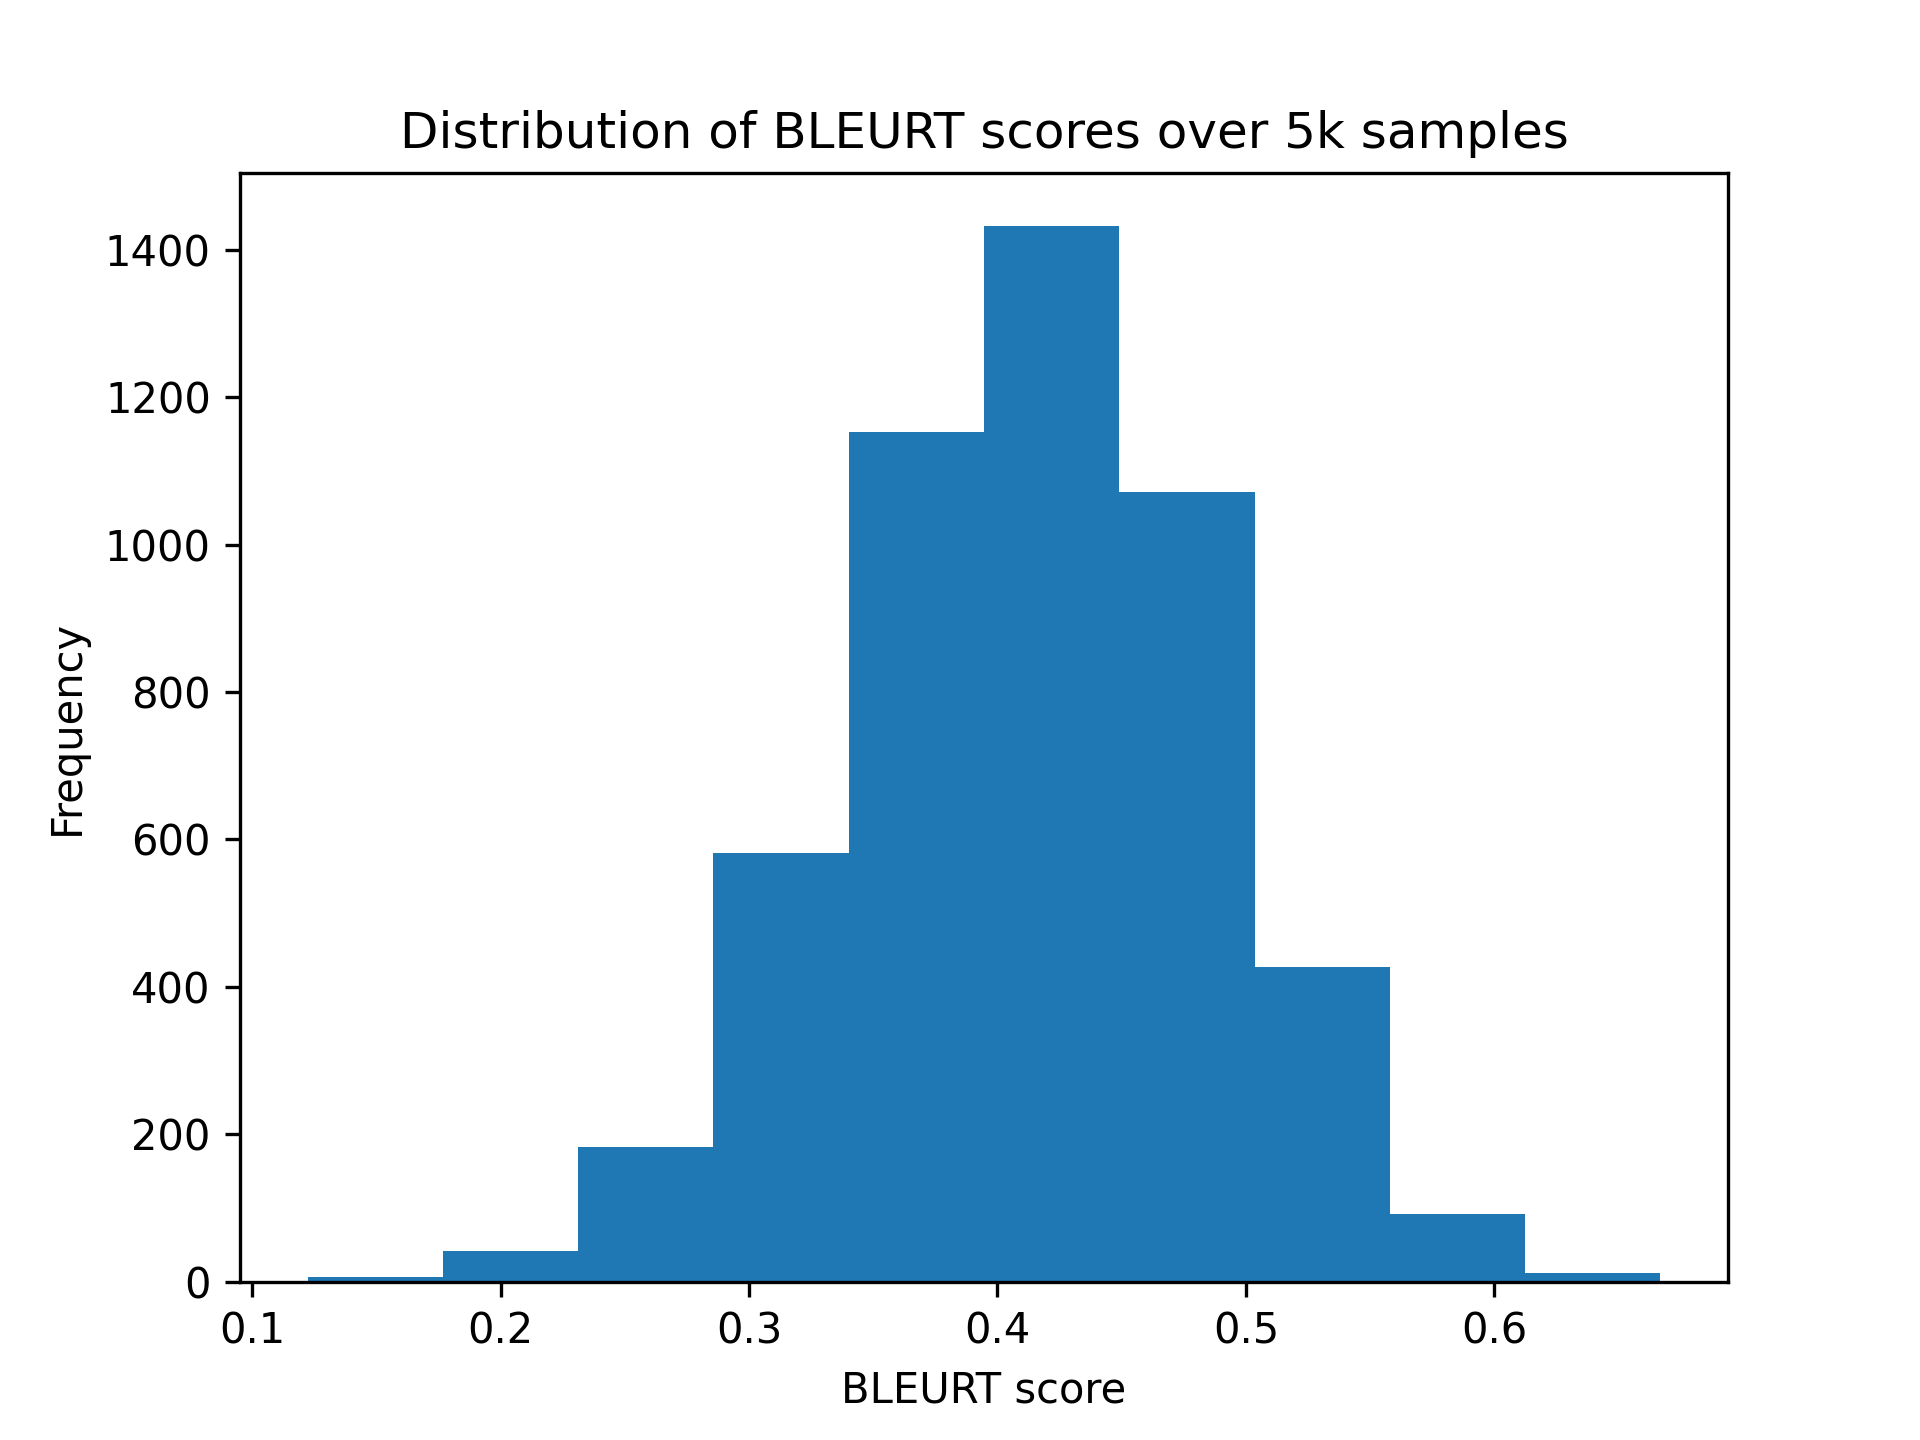
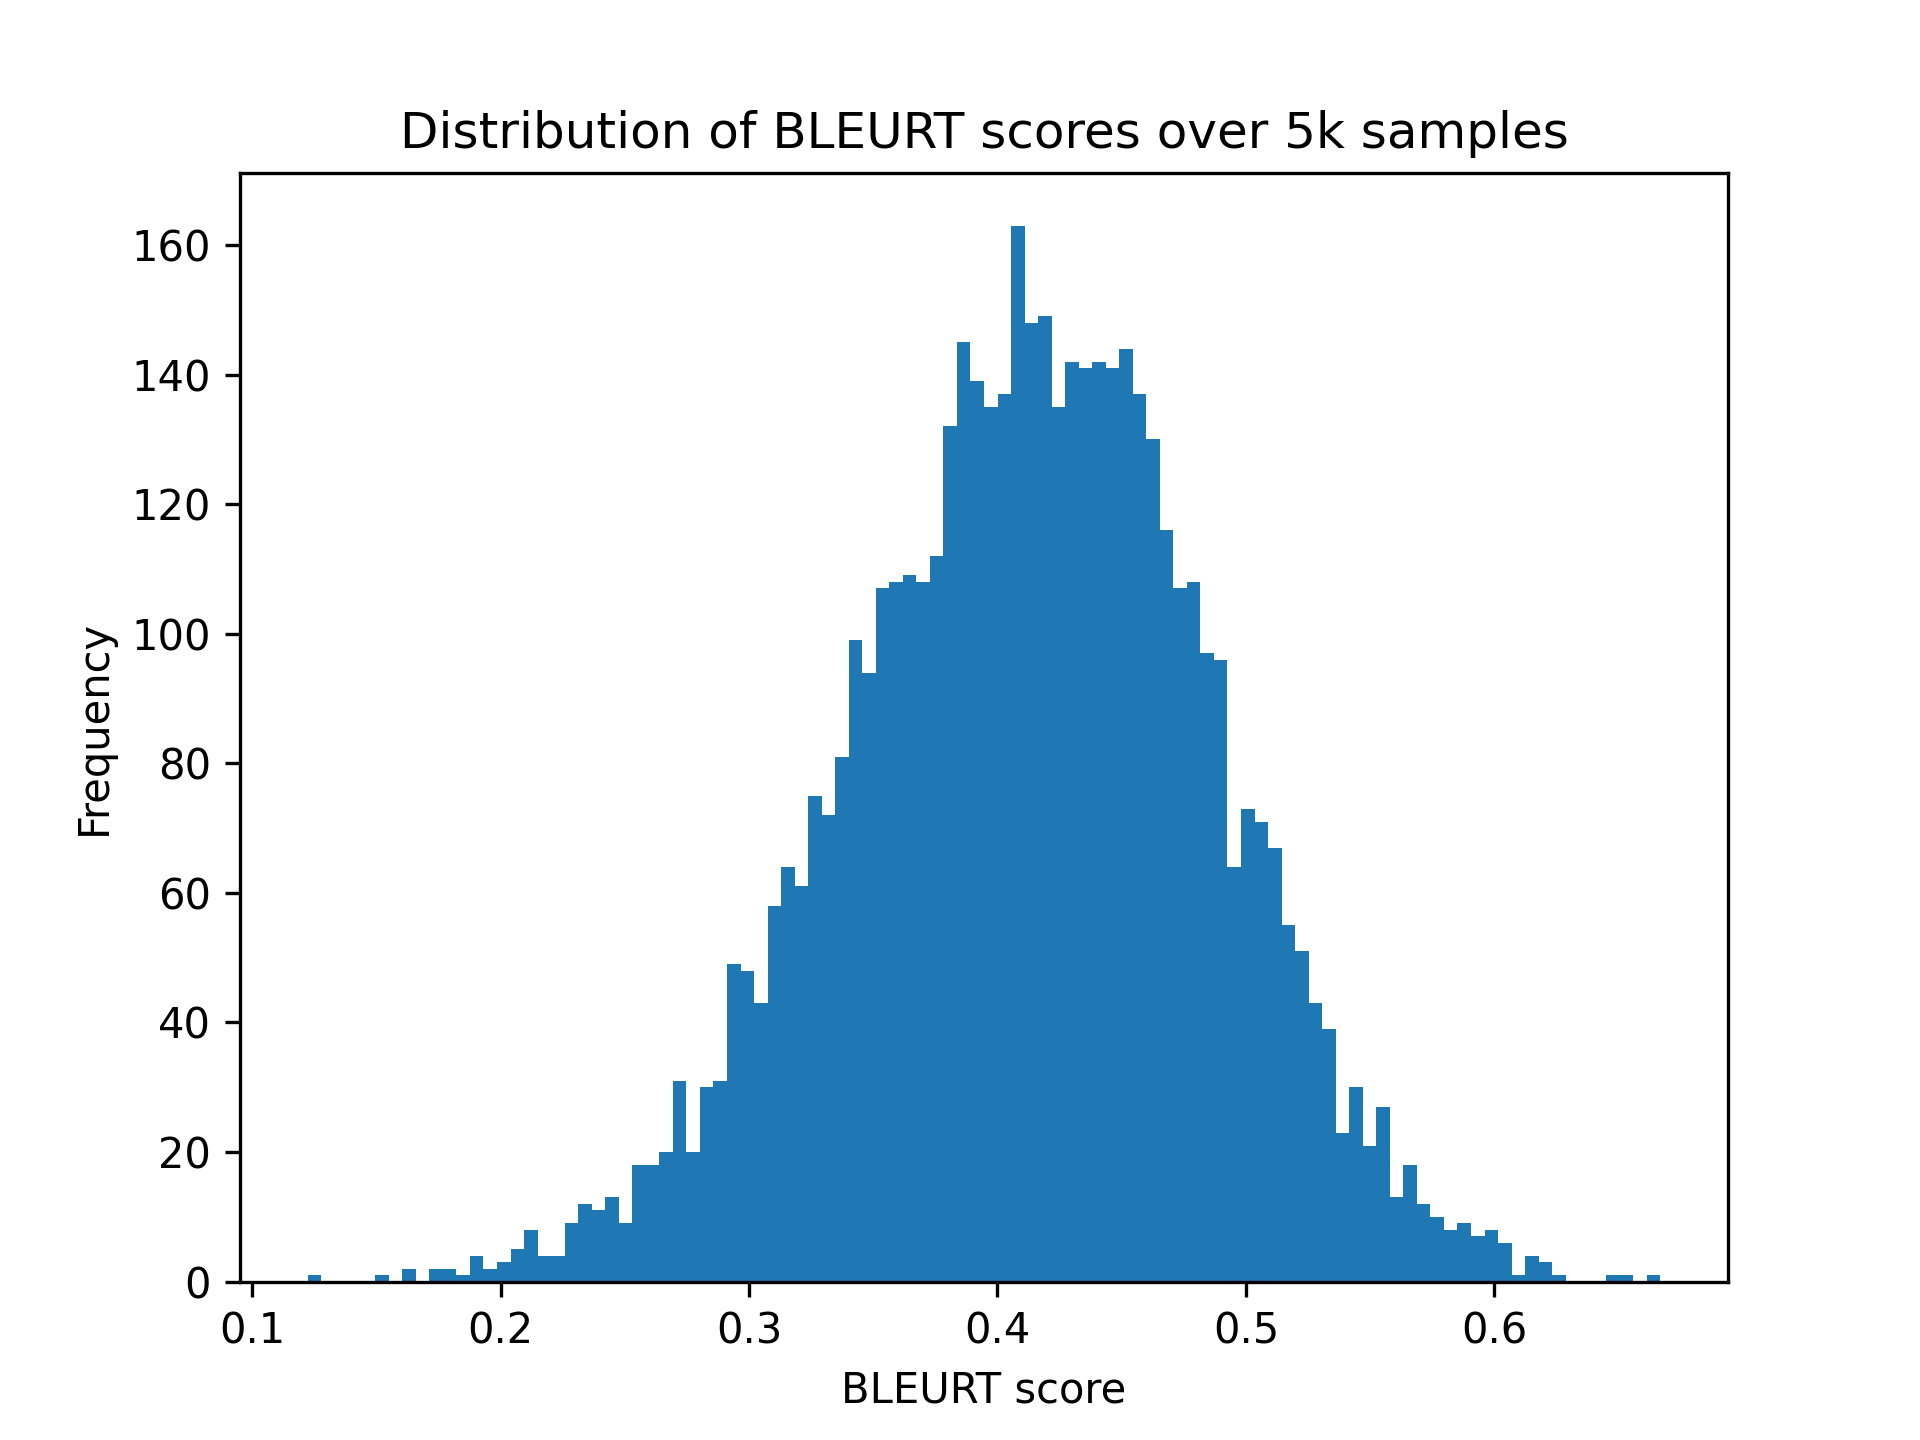
add 50% neuron/residual sparsity score distro

diff --git a/psych-llm/eval_suite/vis-bleurt-score.py b/psych-llm/eval_suite/vis-bleurt-score.py
@@ -8,7 +8,7 @@ def main(scorefile: str = None) -> None:
         with open(scorefile, 'rb') as f:
             scores = pickle.load(f)
         fig, ax = plt.subplots()
-        ax.hist(scores)
+        ax.hist(scores,bins=100)
         ax.set(xlabel="BLEURT score", ylabel="Frequency")
         ax.set_title("Distribution of BLEURT scores over 5k samples")
         fig.savefig('bleurtscores.png', dpi=300)
